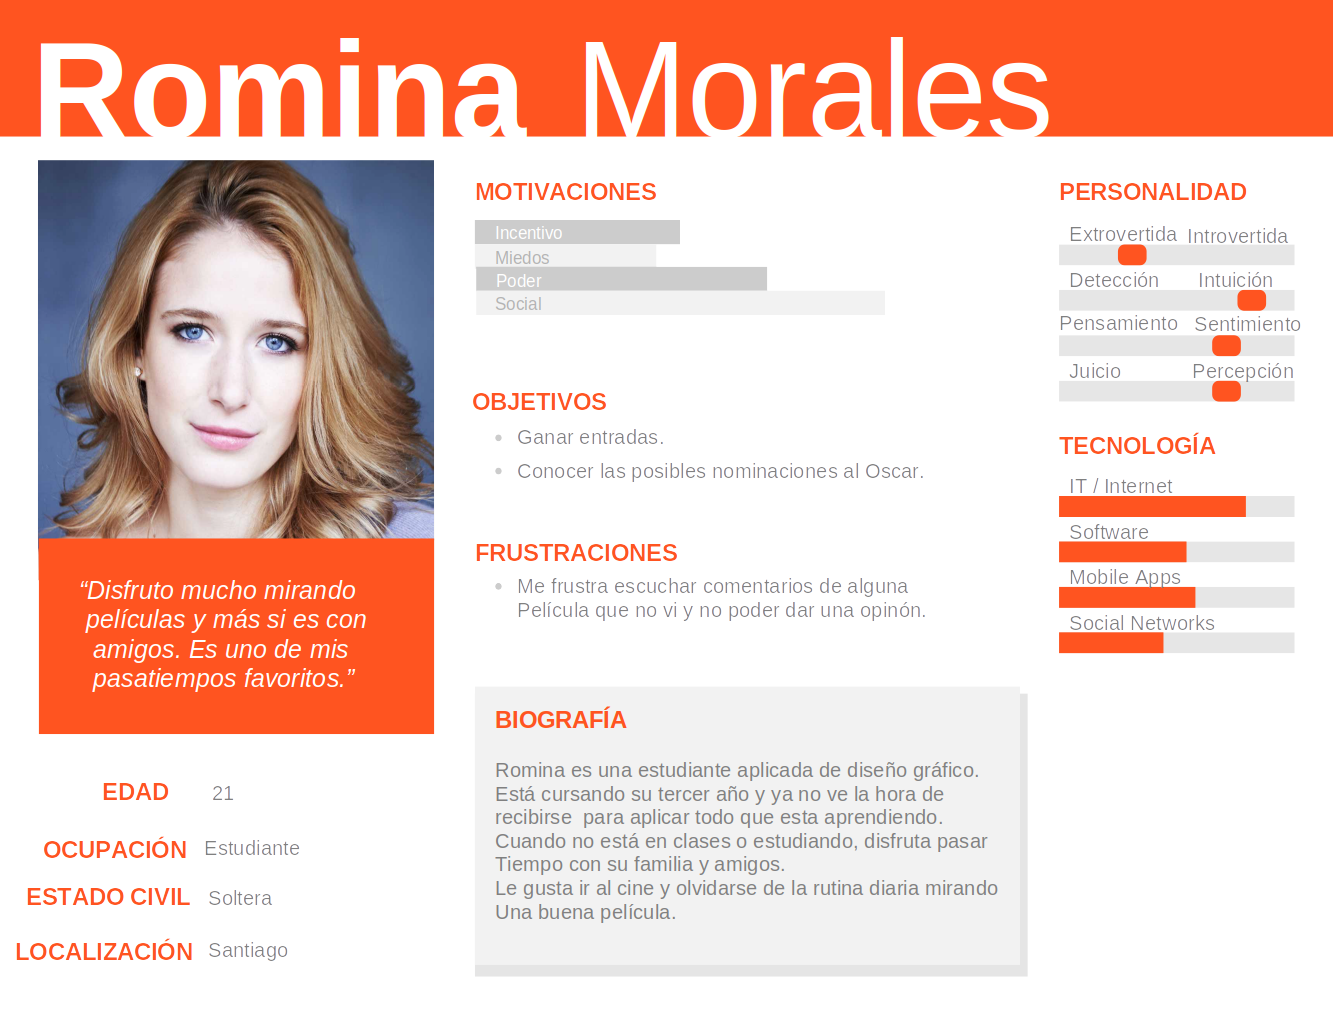
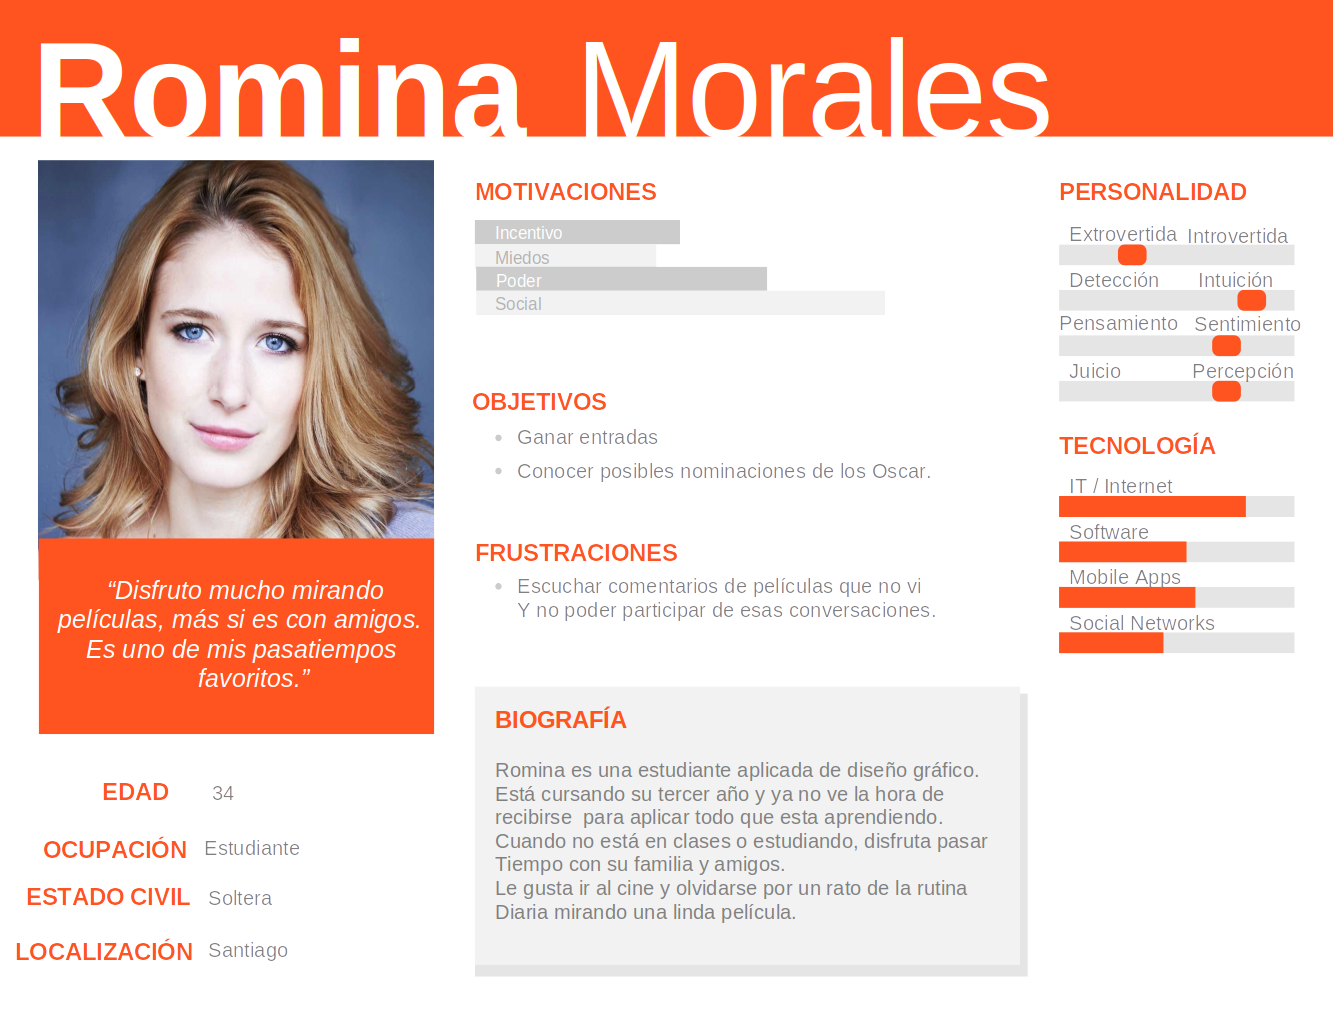
Se agregan imágenes y readme

diff --git a/README.md b/README.md
@@ -1,2 +1,85 @@
 # SCL012-MovieProject
-"Proyecto" de final de Common Core, películas
+
+ ## Índice
+
+* [Preámbulo](#preámbulo)
+* [Diseño](#diseño)
+* [Historias de usuario](#historias-de-usuario)
+* [Diseño de interfaz](#diseño-de-interfaz)
+* [Test de usabilidad](#test-de-usabilidad)
+* [Tareas asignadas](#tareas-asignadas)
+* [Conslusión](#conclusión)
+
+ ***
+
+ ## **Preámbulo**
+
+ Con motivo de celebrar su aniversario, una cadena de Cines quiere regalar entradas para ver una película, pero para conseguirlas, los clientes deben responder 5 preguntas sobre una película a elección de las 8 sugeridas. En caso de ganar, se generará un código QR que se deberá descargar para luego ser canjeado en las boleterias del cine. En caso de perder, se le brindará el cliente la posibilidad de volver a elegir una película para volver a jugar.
+
+ ## **Diseño**
+
+Para el estilo que le íbamos a dar a este este proyecto era necesario seguir con el diseño de la página principal del cine. Para ello hicimos uso del encabezado de la página que incluye el logo con el nombre del cine y los colores usados en el sitio, como el blanco para el fondo y amarillo para los botones, este último, con un tono fuerte para generar contraste.
+
+Para saber que tipo de preguntas incluir en el juego, se hizo una encuenta para determinar el rango de edad de las personas que asisten con mayor frecuencia al cine y que información les interesa más al momento de elegir que película mirar.
+
+![alt text](/src/images/encuesta/respuestas1.png)
+El rango de edad de las personas que asisten al cine con mayor frecuencia es de 34 a 40.
+
+![alt text](/src/images/encuesta/respuestas2.png)
+
+![alt text](/src/images/encuesta/respuestas3.png)
+Si bien la mayoría de las personas encuestadas dijeron que hace tiempo no van al cine, hay otro gran número que va al menos 2 veces al mes.
+
+![alt text](/src/images/encuesta/respuestas4.png)
+La mayoría de las personas  elige una película basada en el genero y en sus protagonistas.
+
+# Apreciaciones 
+Esta información nos sirvió para determinar los temas sobre los que se formularán las preguntas y a que tipo de clientes van a ir dirigidas.
+
+## **Historias de usuario**
+
+![alt text](/src/images/persona.png)
+
+Basadas en este "User Persona" creamos nuestras historias de usuario y planificamos nuestro trabajo.
+
+Trello : https://trello.com/b/LCbtM6K5/ultimo-proyecto
+
+## **Diseño de interfaz**
+
+Realizamos prototipos para versión escritorio. A continuación mostramos imágenes y links con cada prototipo del proyecto.
+
+# Sketch 
+
+![alt text](/src/images/prototipos/sketch1.jpg)
+![alt text](/src/images/prototipos/sketch2.jpg)
+![alt text](/src/images/prototipos/sketch3.jpg)
+
+# Wireframe
+
+![alt text](/src/images/prototipos/wireframe.png)
+
+https://www.figma.com/file/zIRdGpfIlnTGO0aWIgUFiU/Baja-fidelidad---MovieProject
+
+# Prototipo de alta fidelidad
+
+![alt text](/src/images/prototipos/iteracion.png)
+
+https://www.figma.com/file/VLWqxIYpbj09C6yejOsdJx/Alta-fidelidad---MovieProject
+
+
+## **Test de usabilidad**
+
+https://www.loom.com/share/1979b74805544ba88a51dc68fa4adb37
+
+https://www.loom.com/share/3bc402c89e814559ad5faeafee835c9b
+
+# Iteración
+
+Al realizar los testeo surgieron puntos a mejorar:
+* El texto que invita a participar de la trivia no hace referencia a que deben seleccionar una película para empezar a jugar.
+* Además del botón de acceso al juego que contienen el nombre de la película, se decidió que al hacer click sobre la imagen también se pueda acceder a la trivia ya que la primer reacción de algunos usuarios fue clickear sobre ella en primer lugar. 
+
+
+## **Tareas asignadas**
+
+## **Conclusión**
